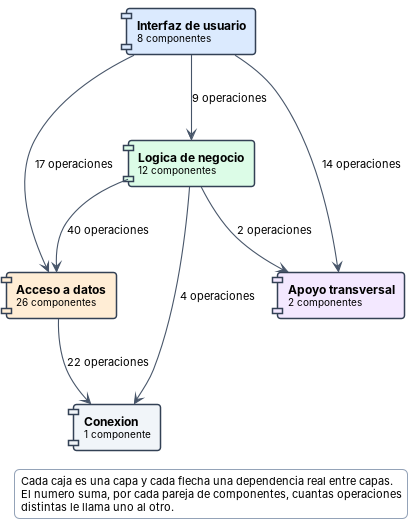
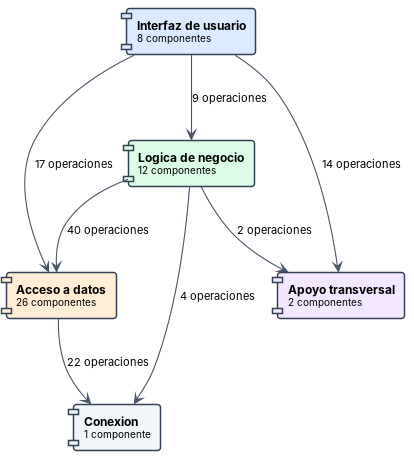
docs: quita el texto explicativo de las vistas simples de componentes
Las cuatro vistas simples llevaban debajo un parrafo que explicaba como
leer el dibujo. Se quitan. Lo que ese texto hacia falta para entender se
pasa al propio dibujo:

- capas: la etiqueta de cada flecha ya decia "N operaciones".
- apoyo: la etiqueta pasa de "22" a "22 componentes".
- pantallas y negocio: queda solo la clave de colores y de simbolos,
  que es lo unico que el dibujo no puede decir por si mismo.

Changed region(s): [[0.0, 0.0, 0.9855, 1.0]]

diff --git a/docs/diagramas-fuente/herramientas/gen_componentes_simple.py b/docs/diagramas-fuente/herramientas/gen_componentes_simple.py
@@ -93,11 +93,6 @@ for c in ORDEN:
              f'componente{"s" if n != 1 else ""}</size>" as k_{c} {COLOR[c]}')
 for (a, b), n in sorted(entre.items(), key=lambda x: -x[1]):
     L.append(f'k_{a} --> k_{b} : {n} operaciones')
-L += ['legend bottom',
-      'Cada caja es una capa y cada flecha una dependencia real entre capas.',
-      'El numero suma, por cada pareja de componentes, cuantas operaciones',
-      'distintas le llama uno al otro.',
-      'endlegend']
 escribe('09_Simple_Capas.puml', L)
 
 # ============================================ S2. pantallas y servicios ===
@@ -114,22 +109,18 @@ for d in destinos:
     L.append(caja(d).replace('#FFFFFF', COLOR[COMP[d]]))
 for (o, d) in sorted(par_ui):
     L.append(f'{al(o)} --> {al(d)}')
+# sin texto explicativo: solo la clave de colores, que es lo unico que el
+# dibujo no dice por si mismo
 sin_salida = sorted(n for n, c in COMP.items() if c == 'ui' and n not in uis)
 L += ['legend bottom',
-      'Que usa cada pantalla.',
-      'Incluye las dependencias de una pantalla a otra.',
+      '<b>Colores</b>  '
       '<back:#DBEAFE>     </back> interfaz    '
       '<back:#DCFCE7>     </back> negocio    '
       '<back:#FFEDD5>     </back> datos    '
-      '<back:#F3E8FF>     </back> apoyo',
-      'endlegend'] if not sin_salida else ['legend bottom',
-      'Que usa cada pantalla. Incluye las dependencias de una pantalla a otra.',
-      '<back:#DBEAFE>     </back> interfaz    '
-      '<back:#DCFCE7>     </back> negocio    '
-      '<back:#FFEDD5>     </back> datos    '
-      '<back:#F3E8FF>     </back> apoyo',
-      'No aparecen ' + ', '.join(sin_salida) + ': no llaman a nadie.',
-      'endlegend']
+      '<back:#F3E8FF>     </back> apoyo']
+if sin_salida:
+    L.append('<b>Sin dependencias</b>  ' + ', '.join(sin_salida))
+L.append('endlegend')
 escribe('10_Simple_UI.puml', L)
 
 # ============================================== S3. negocio hacia datos ===
@@ -160,14 +151,13 @@ for (o, d) in sorted(par_neg):
     muerta = o in EXCL          # si el origen no compila, la flecha no corre
     L.append(f'{al(o)} -[{"#B91C1C" if muerta else "#475569"}]-> {al(d)}')
 L += ['legend bottom',
-      'Que usa cada servicio. Incluye lo que llama fuera de la capa de datos.',
+      '<b>Colores</b>  '
       '<back:#DCFCE7>     </back> negocio    '
       '<back:#FFEDD5>     </back> datos    '
       '<back:#F1F5F9>     </back> conexion    '
       '<back:#F3E8FF>     </back> apoyo',
-      'Las cajas con triangulo son clases que el pom.xml excluye de la '
-      'compilacion;',
-      'sus flechas van en rojo porque ese codigo no llega a ejecutarse.',
+      '<b>Simbolos</b>  <&warning> excluida de la compilacion en pom.xml   '
+      '<back:#B91C1C>     </back> flecha roja: sale de una clase excluida',
       'endlegend']
 escribe('11_Simple_Negocio.puml', L)
 
@@ -191,12 +181,10 @@ for c in usadas:
              f'componente{"s" if n != 1 else ""}</size>" as q_{c} {COLOR[c]}')
 for d in apoyos:
     for c, quienes in sorted(por_capa[d].items(), key=lambda x: ORDEN.index(x[0])):
-        L.append(f'q_{c} --> {al(d)} : {len(quienes)}')
-L += ['legend bottom',
-      'Las piezas que no pertenecen a ninguna capa. El numero de cada flecha',
-      'dice cuantos componentes de esa capa las usan. ConexionBD la usa casi',
-      'todo el sistema; SesionUsuario y TextoBusqueda solo unos pocos.',
-      'endlegend']
+        # la etiqueta lleva la unidad para que el numero se entienda solo,
+        # sin necesidad de un texto que lo explique debajo
+        n = len(quienes)
+        L.append(f'q_{c} --> {al(d)} : {n} componente{"s" if n != 1 else ""}')
 escribe('12_Simple_Apoyo.puml', L)
 
 # ================================================================ informe =
